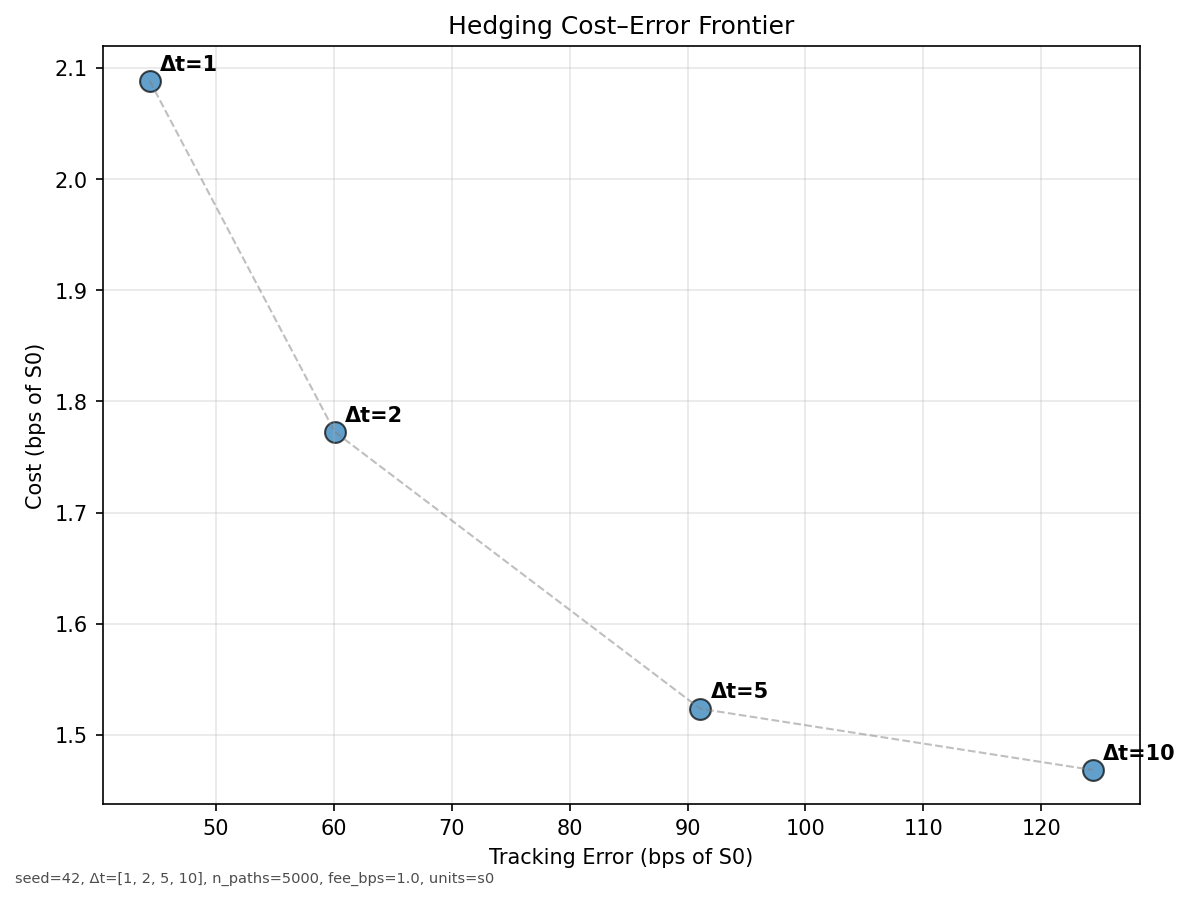
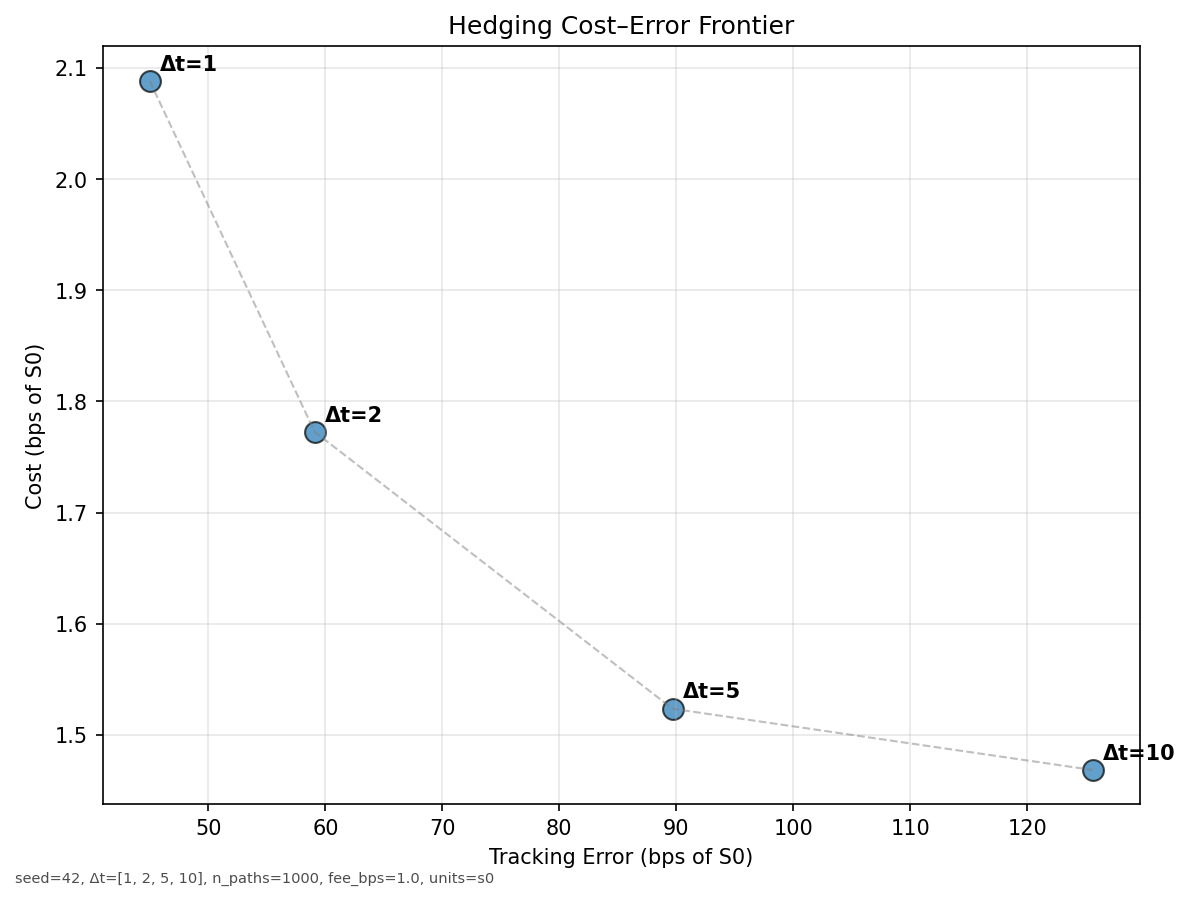
chore: Update generated artifacts with latest runs
- Regenerate frontier plot with correct 4-point visualization
- Update benchmark results with latest performance data
- All artifacts now reflect current codebase state

diff --git a/benchmarks/README_snippet.md b/benchmarks/README_snippet.md
@@ -6,9 +6,9 @@ Monte Carlo option pricing performance comparison.
 |---|---:|---:|
 | numpy | 10,000 | 0.014 |
 | numba | 10,000 | 0.007 |
-| numpy | 100,000 | 0.149 |
-| numba | 100,000 | 0.043 |
-| numpy | 500,000 | 0.747 |
-| numba | 500,000 | 0.206 |
-| numpy | 1,000,000 | 2.498 |
-| numba | 1,000,000 | 0.385 |
+| numpy | 100,000 | 0.152 |
+| numba | 100,000 | 0.042 |
+| numpy | 500,000 | 0.756 |
+| numba | 500,000 | 0.191 |
+| numpy | 1,000,000 | 1.991 |
+| numba | 1,000,000 | 0.426 |
